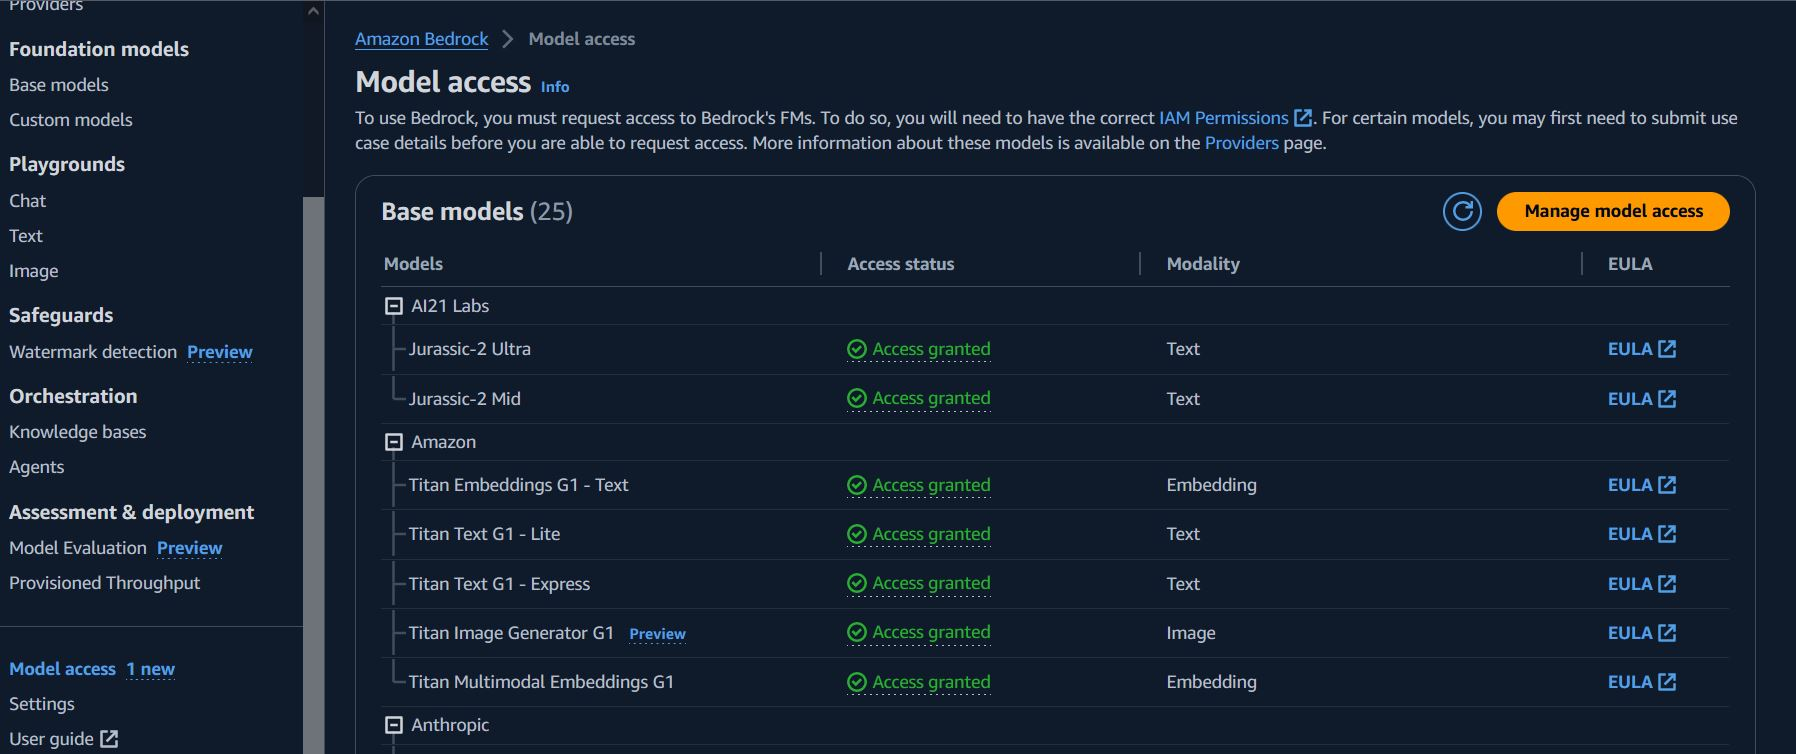
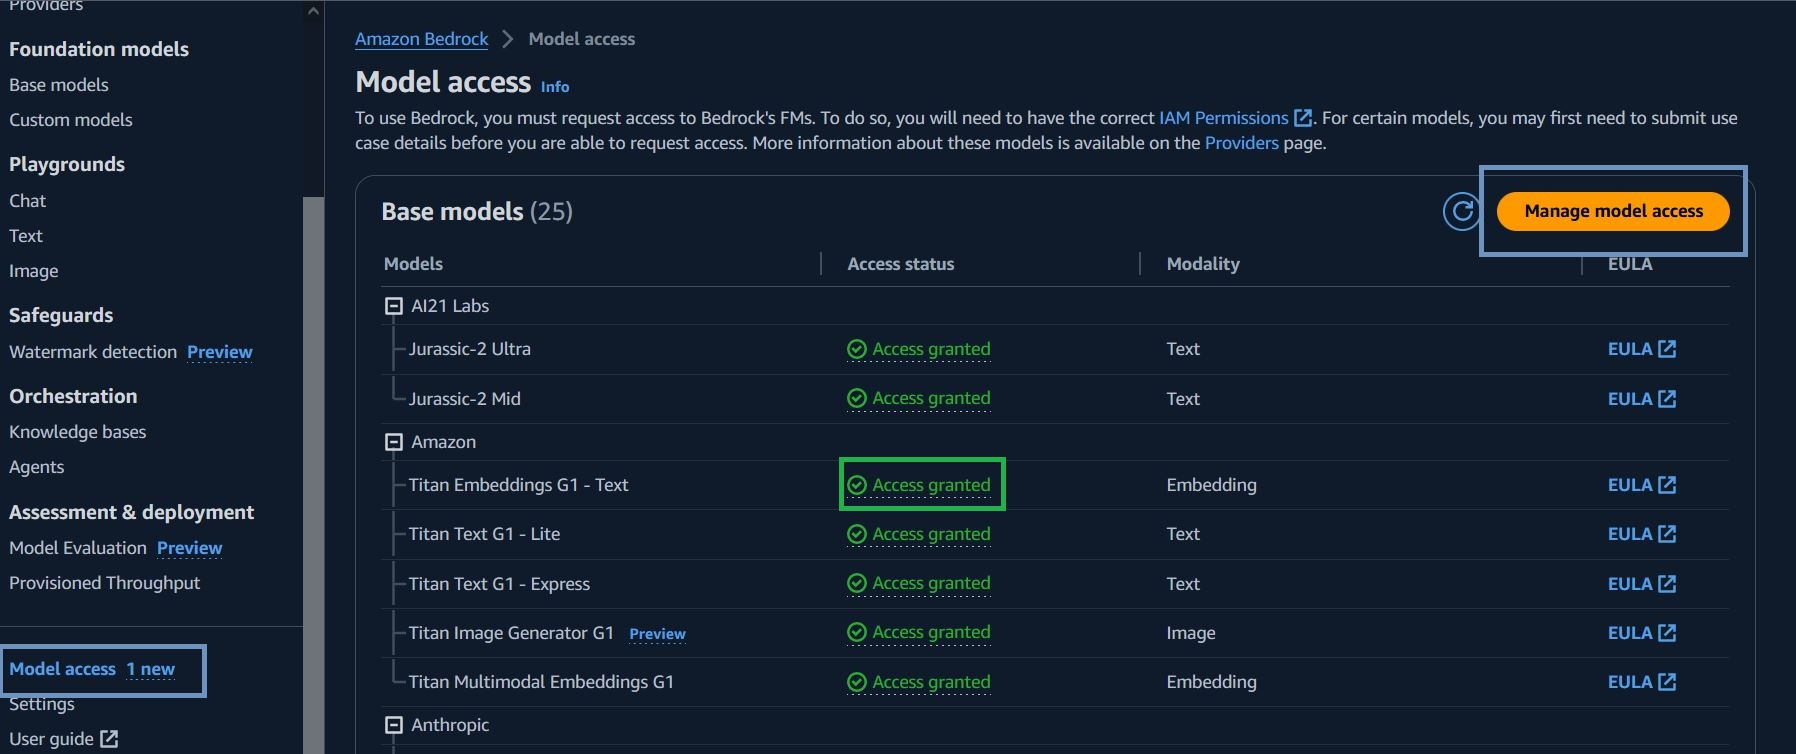
documentation

diff --git a/docs.md b/docs.md
@@ -12,8 +12,141 @@ First, we'll get access to CohereAI through Amazon Bedrock. Next, we will head o
 
 NB: Everything will be deployed in us-west-2 (Oregon), and all resources have to be in the same region for it to work seamlessly
 
-### Setting up access to AWS Bedrock
+### Step 1 Setting up access to AWS Bedrock
 
 Head over to the aws Console and search Bedrock, should be a shiny new green icon that looks like this, select it and click "get started"
 
 ![alt](/images/awsbdrk1.JPG)
+
+On the panel on the left select model access and then in the middle click on "manage model access", follow the prompt, select the model you want to use, in this case cohere ai and click request access, it should quickly give you access to use the models, i believe most of them are generally available to the public.
+
+![alt](/images/awsbdrk2.JPG)
+
+You should be granted access fairly quickly and ready to use. Next up storage
+
+### Step 2 Creating the db for storage
+
+Head on to the aws console, search for dynamodb and get started
+
+![alt](/images/awsddb1.JPG)
+
+Click on create table and fill in the details
+
+![alt](/images/awsddb2.JPG)
+
+take note of the name as we will refer to it in the lambda function
+
+![alt](/images/awsddb3.JPG)
+
+Leave the remaining options as default and click create, we should have a fresh db ready to go.
+
+![alt](/images/awsddb4.JPG)
+
+## Step 3a. Create our lambda roles and permission
+
+Before we go running to create our lambda, which is the brains of the operations. we need to give the service permissions to call some other services on our behalf. we will create the following permissions
+
+1. Dynamodb full access: To be able to CRUD the db
+1. Cloudwatch full access: To store logs and activities
+1. Bedrock Full access: To be able to send and receive information for the bedrock service.
+
+We can do all these at once, so head over to IAM and create a role.
+
+![alt](/images/awsiam1.JPG)
+
+remember the name of the role, so that we can apply it when we are creating the lambda function
+
+## Step 3b. Create our lambda function
+
+Buckle up, as we have a lot to do here. ready? head over to the console and search for lambda, usually the 1st thing to pop up.
+
+![alt](/images/awslamba1.JPG)
+
+Here we are going to author our function, give it a name and set the runtime to a python runtime, NB:Please select a runtime of v3.11, as we need the version of our boto3 to be atleast > v1.28.
+
+![alt](/images/awslamb1.JPG)
+
+Under the permissions section, select an existing execution role, and select the role we created earlier in the IAM section
+and then go ahead and create the function
+
+![alt](/images/awslamb2.JPG)
+
+go ahead and click create... and lets get to it
+
+briefly lets check the version of boto3 before we continue
+
+```py
+import boto3
+
+print(boto3.__version__, "<- show boto3 version")
+```
+
+![alt](/images/awslamb4.JPG)
+
+click on deploy then test, then we should see the outcome in the execution results
+
+![alt](/images/awslamb5.JPG)
+
+Great our boto3 version is okay, we can now proceed to write our actual function, the function will receive the user prompt and send it to aws bedrock which will process it using the cohereAI model and send us a dynamic response.
+
+Now we can replace the code with our actual code.
+
+```py
+import json
+import boto3
+
+# import resources
+client = boto3.client("bedrock-runtime")
+dynamodb = boto3.resource("dynamodb")
+table = dynamodb.Table("<DynamoDbTableName>")
+
+# check the version of boto3
+print(boto3.__version__, "<- boto3 version")
+
+def lambda_handler(event, context):
+    # the prompt will be received as an event from api-gw
+    print(event)
+    user_prompt = event["user_prompt"]
+
+    # create a response object,should be in json format
+    response = client.invoke_model(
+        accept="application/json",
+        contentType="application/json",
+        modelId="cohere.command-text-v14",
+        body=json.dumps(
+            {
+                "prompt": user_prompt,
+                "max_tokens": 20,
+                "temperature": 0.9,
+            }
+        ),
+    )
+    print(response["body"])
+    # convert the response body to bytes, then back to string
+    response_byte = response["body"].read()
+    response_string = json.loads(response_byte)
+
+    # Extracting AI response from the response
+    ai_response = response_string["generations"][0][
+        "text"
+    ]
+
+    # Store user prompt and AI response in DynamoDB table
+    response_db = table.put_item(
+        Item={"user_prompt": user_prompt, "ai_response": ai_response}
+    )
+
+    print(response_db)
+    return {
+        "statusCode": 200,
+        "body": json.dumps(
+            {"response_string": response_string,"response_db": response_db,}
+        ),
+    }
+```
+
+Click on deploy then test, then we should get a response from our model.
+
+![alt](/images/awslamb6.JPG)
+
+Great our lambda function is working fine,its sending and receiving prompts and also storing it in the db. We can now proceed to the final steps and create api gateway
